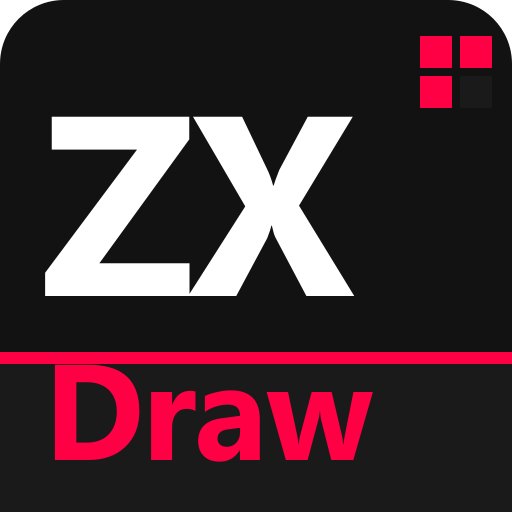
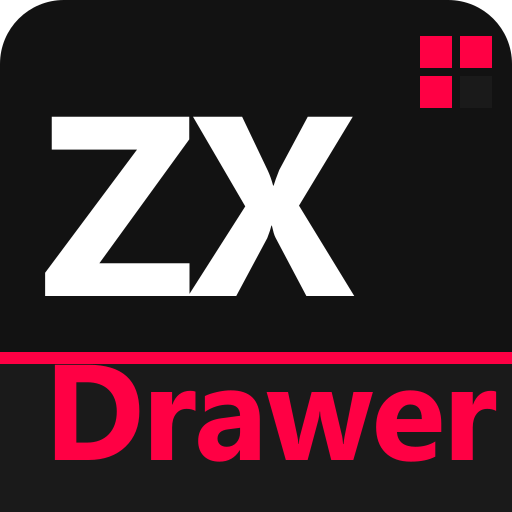
feat: rename project to zx drawer

Changed region(s): [[0.7188, 0.75, 0.9688, 0.9062]]

diff --git a/itchio.html b/itchio.html
@@ -23,7 +23,7 @@
   <li><strong>Arrastrar y soltar</strong>: arrastra <code>.zxp</code> o <code>.scr</code> sobre la ventana para abrirlos rápidamente.</li>
   <li><strong>Asociación de archivos</strong>: al instalar el programa se registra como aplicación posible para abrir <code>.zxp</code> y <code>.scr</code>.</li>
   <li><strong>Idiomas</strong>: disponible en Español, English y Português.</li>
-  <li><strong>Múltiples instancias</strong>: ZXDraw puede abrirse en varias ventanas simultáneamente.</li>
+  <li><strong>Múltiples instancias</strong>: ZXDrawer puede abrirse en varias ventanas simultáneamente.</li>
   <li><strong>Editor de máscaras</strong>: herramienta para editar los píxeles de máscara manualmente. Selecciona el área sprite+máscara y pulsa "Editar Máscara". El overlay rojo indica zonas transparentes; clic izquierdo = transparente, clic derecho = opaco. Compatible con deshacer/rehacer.</li>
   <li><strong>Copiar y pegar entre instancias</strong>: el portapapeles se comparte entre todas las ventanas abiertas. Copia en una instancia y pega en cualquier otra sin archivos intermedios.</li>
   <li><strong>Rejilla de píxel (1×1)</strong>: nuevo botón de rejilla fina de 1×1 píxel, independiente y combinable con la rejilla de caracteres 8×8. También visible en el visor de animación.</li>
@@ -68,9 +68,9 @@
   <li><strong>Drag & drop</strong>: drag <code>.zxp</code> or <code>.scr</code> files onto the window to open them.</li>
   <li><strong>File associations</strong>: installer registers the app as an option to open <code>.zxp</code> and <code>.scr</code> files.</li>
   <li><strong>Languages</strong>: available in Español, English and Português.</li>
-  <li><strong>Multiple instances</strong>: ZXDraw can be launched in multiple windows simultaneously.</li>
+  <li><strong>Multiple instances</strong>: ZXDrawer can be launched in multiple windows simultaneously.</li>
   <li><strong>Mask editor</strong>: tool for manually editing mask pixels. Select the sprite+mask area and click "Edit Mask". Red overlay marks transparent pixels; left click = transparent, right click = opaque. Supports undo/redo.</li>
-  <li><strong>Copy &amp; paste between instances</strong>: clipboard is shared across all open ZXDraw windows. Copy in one instance, paste in any other — no intermediate file needed.</li>
+  <li><strong>Copy &amp; paste between instances</strong>: clipboard is shared across all open ZXDrawer windows. Copy in one instance, paste in any other — no intermediate file needed.</li>
   <li><strong>Pixel grid (1×1)</strong>: new fine pixel grid button, independent and combinable with the 8×8 character grid. Also shown in the animation preview.</li>
   <li><strong>Status bar</strong>: shows selection size in pixels and character blocks (8×8) for easier copy/paste/export workflows.</li>
   <li><strong>Edit sprites from animation preview</strong>: paint pixels directly on the animation preview (left click = ink, right click = paper) and changes are immediately reflected on the main spriteset at the correct frame position.</li>
@@ -111,7 +111,7 @@
   <li><strong>Arrastar e soltar</strong>: arraste ficheiros <code>.zxp</code> ou <code>.scr</code> para a janela para os abrir.</li>
   <li><strong>Associação de ficheiros</strong>: o instalador regista a aplicação como opção para abrir <code>.zxp</code> e <code>.scr</code>.</li>
   <li><strong>Idiomas</strong>: disponível em Español, English e Português.</li>
-  <li><strong>Múltiplas instâncias</strong>: o ZXDraw pode ser aberto em várias janelas em simultâneo.</li>
+  <li><strong>Múltiplas instâncias</strong>: o ZXDrawer pode ser aberto em várias janelas em simultâneo.</li>
   <li><strong>Editor de máscaras</strong>: ferramenta para editar pixels de máscara manualmente. Selecione a área sprite+máscara e clique em "Editar Máscara". O overlay vermelho indica zonas transparentes; clique esquerdo = transparente, clique direito = opaco. Compatível com desfazer/refazer.</li>
   <li><strong>Copiar e colar entre instâncias</strong>: a área de transferência é partilhada entre todas as janelas abertas. Copie numa instância e cole noutra — sem ficheiros intermediários.</li>
   <li><strong>Grelha de pixel (1×1)</strong>: novo botão de grelha fina de 1×1 pixel, independente e combinável com a grelha de caracteres 8×8. Também visível no visualizador de animação.</li>

diff --git a/renderer.js b/renderer.js
@@ -1,5 +1,5 @@
 /**
- * ZXDraw Renderer Logic
+ * ZXDrawer Renderer Logic
  */
 
 const SPECTRUM_PALETTE = [
@@ -28,7 +28,7 @@ const FALLBACK_TRANSLATIONS = {
     }
 };
 
-class ZXDraw {
+class ZXDrawer {
     constructor() {
         this.zoom = 4;
         this.gridVisible = true;
@@ -177,7 +177,7 @@ class ZXDraw {
 
     getRecentFiles() {
         try {
-            const raw = localStorage.getItem('zxdraw_recent_files');
+            const raw = localStorage.getItem('zxdrawer_recent_files');
             if (!raw) return [];
             const arr = JSON.parse(raw);
             if (!Array.isArray(arr)) return [];
@@ -186,7 +186,7 @@ class ZXDraw {
     }
 
     saveRecentFiles(arr) {
-        try { localStorage.setItem('zxdraw_recent_files', JSON.stringify(arr)); } catch (e) {}
+        try { localStorage.setItem('zxdrawer_recent_files', JSON.stringify(arr)); } catch (e) {}
     }
 
     addRecentFile(filePath) {
@@ -1142,14 +1142,14 @@ class ZXDraw {
     setupI18n() {
         const select = document.getElementById('lang-select');
         if (!select) return;
-        const saved = localStorage.getItem('zxdraw_lang') || (navigator.language || 'en').slice(0,2);
+        const saved = localStorage.getItem('zxdrawer_lang') || (navigator.language || 'en').slice(0,2);
         const lang = ['en','es','pt'].includes(saved) ? saved : 'en';
         select.value = lang;
 
         // Wire language selector (works for both sync and async paths)
         select.onchange = (e) => {
             const l = e.target.value;
-            localStorage.setItem('zxdraw_lang', l);
+            localStorage.setItem('zxdrawer_lang', l);
             this.loadLocale(l).then(map => {
                 this.applyTranslationsMap(map);
                 try { if (window.electronAPI && typeof window.electronAPI.setAppLanguage === 'function') window.electronAPI.setAppLanguage(l); } catch (err) { console.warn('setAppLanguage failed', err); }
@@ -2056,7 +2056,7 @@ class ZXDraw {
         }
         const result = window.ZXImportBas(text, tileW, cols, rows);
         if (!result) {
-            alert('Failed to parse .bas file. Make sure it was exported with "Export as Matrix" option from ZXDraw.');
+            alert('Failed to parse .bas file. Make sure it was exported with "Export as Matrix" option from ZXDrawer.');
             return;
         }
         const { pixels, attributes, canvasWidth, canvasHeight } = result;
@@ -2779,5 +2779,5 @@ class ZXDraw {
 }
 
 window.onload = () => {
-    window.zxDraw = new ZXDraw();
+    window.zxDraw = new ZXDrawer();
 };

diff --git a/main.js b/main.js
@@ -139,7 +139,7 @@ function buildMenuTemplate(t) {
     {
       label: t['menu.help'] || 'Help',
       submenu: [
-        { label: t['menu.about'] || 'About ZXDraw', click: () => mainWindow.webContents.send('menu-about') },
+        { label: t['menu.about'] || 'About ZXDrawer', click: () => mainWindow.webContents.send('menu-about') },
       ],
     },
   ];
@@ -149,7 +149,7 @@ function createWindow() {
   mainWindow = new BrowserWindow({
     width: 1200,
     height: 900,
-    title: 'ZXDraw',
+    title: 'ZXDrawer',
     icon: path.join(__dirname, 'icon.png'),
     webPreferences: {
       preload: path.join(__dirname, 'preload.js'),
@@ -448,18 +448,18 @@ ipcMain.on('close-window', () => {
 // Cross-instance clipboard sharing via a shared JSON file in userData
 const CLIPBOARD_STORE = () => path.join(app.getPath('userData'), 'clipboard.json');
 
-ipcMain.handle('zxdraw-clipboard-set', (event, data) => {
+ipcMain.handle('zxdrawer-clipboard-set', (event, data) => {
   try {
     fs.writeFileSync(CLIPBOARD_STORE(), JSON.stringify(data), 'utf8');
-  } catch (e) { console.warn('zxdraw-clipboard-set failed', e); }
+  } catch (e) { console.warn('zxdrawer-clipboard-set failed', e); }
 });
 
-ipcMain.handle('zxdraw-clipboard-get', () => {
+ipcMain.handle('zxdrawer-clipboard-get', () => {
   try {
     const p = CLIPBOARD_STORE();
     if (fs.existsSync(p)) {
       return JSON.parse(fs.readFileSync(p, 'utf8'));
     }
-  } catch (e) { console.warn('zxdraw-clipboard-get failed', e); }
+  } catch (e) { console.warn('zxdrawer-clipboard-get failed', e); }
   return null;
 });

diff --git a/index.html b/index.html
@@ -3,14 +3,14 @@
 <head>
     <meta charset="UTF-8">
     <meta name="viewport" content="width=device-width, initial-scale=1.0">
-    <title>ZXDraw</title>
+    <title>ZXDrawer</title>
     <link rel="stylesheet" href="style.css">
 </head>
 <body class="dark-theme">
     <div id="app">
         <!-- Header -->
         <header>
-            <div class="logo">ZX<span>Draw</span></div>
+            <div class="logo">ZX<span>Drawer</span></div>
             <div class="controls">
                 <!-- hidden functional buttons targeted by menu/keyboard shortcuts -->
                 <button id="new-btn" style="display:none"></button>
@@ -263,7 +263,7 @@
         <!-- About Modal -->
         <div id="about-modal" class="modal hidden">
             <div class="modal-content" style="width:340px;text-align:center">
-                <div class="logo" style="font-size:48px;margin-bottom:8px">ZX<span>Draw</span></div>
+                <div class="logo" style="font-size:48px;margin-bottom:8px">ZX<span>Drawer</span></div>
                 <p style="color:#a0a0a0;margin-bottom:20px;font-size:13px" data-i18n="about.tagline">ZX Spectrum-inspired pixel art editor</p>
                 <p style="color:#e0e0e0;font-size:14px">&copy; Ra&uuml;l Torralba <em>AKA</em> Juntelart</p>
                 <div style="color:#9a9a9a;margin-top:8px;font-size:13px"><span data-i18n="about.version">Version</span>: <span id="about-version">?</span></div>

diff --git a/import/bas.js b/import/bas.js
@@ -1,6 +1,6 @@
 /**
  * Boriel Basic (.bas) Importer
- * Reverses the ZXDraw PutChars matrix export format back into pixel/attribute data.
+ * Reverses the ZXDrawer PutChars matrix export format back into pixel/attribute data.
  *
  * Supports the matrix format generated by ZXExportPutChars:
  *   Dim name(count-1, totalBytes-1) As Ubyte => { { $XX,... }, ... }
@@ -10,7 +10,7 @@
 /**
  * Parse a Boriel Basic matrix .bas file.
  * Returns { pixels, attributes, canvasWidth, canvasHeight } ready to be placed
- * on a ZXDraw canvas, or null on parse failure.
+ * on a ZXDrawer canvas, or null on parse failure.
  *
  * @param {string} text      - Raw .bas file content
  * @param {number} tileW     - Tile width in pixels (e.g. 8, 16, 24...)

diff --git a/export/data.js b/export/data.js
@@ -1,5 +1,5 @@
 /**
- * Standard Data Exporter for ZXDraw
+ * Standard Data Exporter for ZXDrawer
  * SevenuP-compatible: full 5-priority loop system, mask support,
  * attribute mask, zigzag, z88dk, flexible interleave.
  *
@@ -201,7 +201,7 @@ window.ZXExportData = function(pixels, attributes, imgWidth, imgHeight, options)
     const PER_LINE = 8;
 
     const asmLines = [];
-    asmLines.push('; ASM source file created by ZXDraw');
+    asmLines.push('; ASM source file created by ZXDrawer');
     asmLines.push('');
     asmLines.push(';GRAPHIC DATA:');
     asmLines.push(`;Pixel Size:      (${String(imgWidth).padStart(FW)}, ${String(imgHeight).padStart(FW)})`);

diff --git a/preload.js b/preload.js
@@ -29,8 +29,8 @@ contextBridge.exposeInMainWorld('electronAPI', {
   }
   ,
   setAppLanguage: (lang) => ipcRenderer.send('set-language', lang),
-  setClipboard: (data) => ipcRenderer.invoke('zxdraw-clipboard-set', data),
-  getClipboard: () => ipcRenderer.invoke('zxdraw-clipboard-get')
+  setClipboard: (data) => ipcRenderer.invoke('zxdrawer-clipboard-set', data),
+  getClipboard: () => ipcRenderer.invoke('zxdrawer-clipboard-get')
   ,
   getAppVersion: () => {
     try {

diff --git a/export/putchars.js b/export/putchars.js
@@ -87,7 +87,7 @@ window.ZXExportPutChars = function(pixels, attributes, imgWidth, imgHeight, w, r
     };
 
     let out = [];
-    out.push(`' Generated by ZXDraw`);
+    out.push(`' Generated by ZXDrawer`);
     out.push(`' Size: ${w}x${w}`);
     out.push(`' Count: ${total_sprites}\n`);
 

diff --git a/itchio/changelog_1.0.19.md b/itchio/changelog_1.0.19.md
@@ -1,4 +1,4 @@
-# ZXDraw v1.0.19 — Novedades
+# ZXDrawer v1.0.19 — Novedades
 
 ## Nuevas funcionalidades
 
@@ -26,10 +26,10 @@ Se añaden los botones **Anterior** y **Siguiente** al panel de animación. Cada
 - Resalta el sprite correspondiente en el canvas principal con un rectángulo de selección.
 
 ### Múltiples instancias
-ZXDraw puede abrirse en varias ventanas simultáneamente.
+ZXDrawer puede abrirse en varias ventanas simultáneamente.
 
 ### Copiar y pegar entre instancias
-El portapapeles ahora se comparte entre todas las ventanas abiertas de ZXDraw. Copia una selección en una instancia y pégala en cualquier otra, sin archivos intermedios.
+El portapapeles ahora se comparte entre todas las ventanas abiertas de ZXDrawer. Copia una selección en una instancia y pégala en cualquier otra, sin archivos intermedios.
 
 ### Rejilla de píxel (1×1)
 Se añade un nuevo botón de rejilla junto al existente de caracteres. Cuando está activo, superpone una rejilla fina de 1×1 píxel sobre el canvas (en gris semitransparente), facilitando el trabajo a nivel de píxel. Ambas rejillas son independientes y combinables. La rejilla de píxel también se muestra en el visor de animación.
@@ -54,7 +54,7 @@ Gracias a **Jaime Tejedor (Metalbrain)** por su editor gráfico **Sevenup**, cuy
 
 ---
 
-# ZXDraw v1.0.19 — Changelog
+# ZXDrawer v1.0.19 — Changelog
 
 ## New features
 
@@ -82,10 +82,10 @@ Added **Previous** and **Next** buttons to the animation panel. Each click:
 - Highlights the corresponding sprite in the main canvas with a selection rectangle.
 
 ### Multiple instances
-ZXDraw can now be launched in multiple windows simultaneously.
+ZXDrawer can now be launched in multiple windows simultaneously.
 
 ### Copy & paste between instances
-Clipboard data is now shared across all open ZXDraw windows. Copy a selection in one instance and paste it in any other — no intermediate file needed.
+Clipboard data is now shared across all open ZXDrawer windows. Copy a selection in one instance and paste it in any other — no intermediate file needed.
 
 ### Pixel grid (1×1)
 A new grid button has been added next to the existing character grid toggle. When active, it overlays a fine 1×1 pixel grid on the canvas (rendered in semi-transparent grey), making it easier to work at the pixel level. Both grids are independent and can be combined. The pixel grid is also shown in the animation preview.
@@ -110,7 +110,7 @@ Thanks to **Jaime Tejedor (Metalbrain)** for his graphic editor **Sevenup**, who
 
 ---
 
-# ZXDraw v1.0.19 — Novidades
+# ZXDrawer v1.0.19 — Novidades
 
 ## Novas funcionalidades
 
@@ -138,10 +138,10 @@ Adicionados os botões **Anterior** e **Próximo** ao painel de animação. Cada
 - Destaca o sprite correspondente no canvas principal com um retângulo de seleção.
 
 ### Múltiplas instâncias
-O ZXDraw pode agora ser aberto em várias janelas em simultâneo.
+O ZXDrawer pode agora ser aberto em várias janelas em simultâneo.
 
 ### Copiar e colar entre instâncias
-A área de transferência é agora partilhada entre todas as janelas abertas do ZXDraw. Copie uma seleção numa instância e cole-a noutra — sem ficheiros intermediários.
+A área de transferência é agora partilhada entre todas as janelas abertas do ZXDrawer. Copie uma seleção numa instância e cole-a noutra — sem ficheiros intermediários.
 
 ### Grelha de pixel (1×1)
 Adicionado um novo botão de grelha junto ao existente de caracteres. Quando ativo, sobrepõe uma grelha fina de 1×1 pixel sobre o canvas (em cinzento semitransparente), facilitando o trabalho ao nível do pixel. Ambas as grelhas são independentes e combináveis. A grelha de pixel também é mostrada no visualizador de animação.

diff --git a/README.md b/README.md
@@ -1,7 +1,7 @@
-ZXDraw
+ZXDrawer
 ======
 
-**ZXDraw** is a modern, feature-rich pixel art editor specifically designed for the **ZX Spectrum**. Built as a cross-platform desktop application using Electron, it provides a streamlined workflow for retro game developers and pixel artists who want to create graphics while strictly respecting the hardware constraints of the Sinclair machine.
+**ZXDrawer** is a modern, feature-rich pixel art editor specifically designed for the **ZX Spectrum**. Built as a cross-platform desktop application using Electron, it provides a streamlined workflow for retro game developers and pixel artists who want to create graphics while strictly respecting the hardware constraints of the Sinclair machine.
 
 Key Features
 ------------
@@ -32,7 +32,7 @@ Copyright
 
 Privacy Policy
 --------------
-ZXDraw does not collect, store, or transmit any personal data or usage information. All files created or edited remain local to your device.
+ZXDrawer does not collect, store, or transmit any personal data or usage information. All files created or edited remain local to your device.
 
 Quick start
 -----------

diff --git a/itchio/changelog_1.0.21.md b/itchio/changelog_1.0.21.md
@@ -1,4 +1,4 @@
-# ZXDraw v1.0.21 — Novedades
+# ZXDrawer v1.0.21 — Novedades
 
 ## Nuevas funcionalidades
 
@@ -23,7 +23,7 @@ Al pulsar Ctrl+V en una instancia que ya había pegado algo antes, ahora siempre
 
 ---
 
-# ZXDraw v1.0.21 — Changelog
+# ZXDrawer v1.0.21 — Changelog
 
 ## New features
 
@@ -48,7 +48,7 @@ Pressing Ctrl+V in an instance that had previously pasted something would reuse 
 
 ---
 
-# ZXDraw v1.0.21 — Novidades
+# ZXDrawer v1.0.21 — Novidades
 
 ## Novas funcionalidades
 

diff --git a/itchio/changelog_1.0.24.md b/itchio/changelog_1.0.24.md
@@ -1,4 +1,4 @@
-# ZXDraw: Mejoras de usabilidad, Modo Oscuro e Importador de Boriel Basic · v1.0.24
+# ZXDrawer: Mejoras de usabilidad, Modo Oscuro e Importador de Boriel Basic · v1.0.24
 
 ---
 
